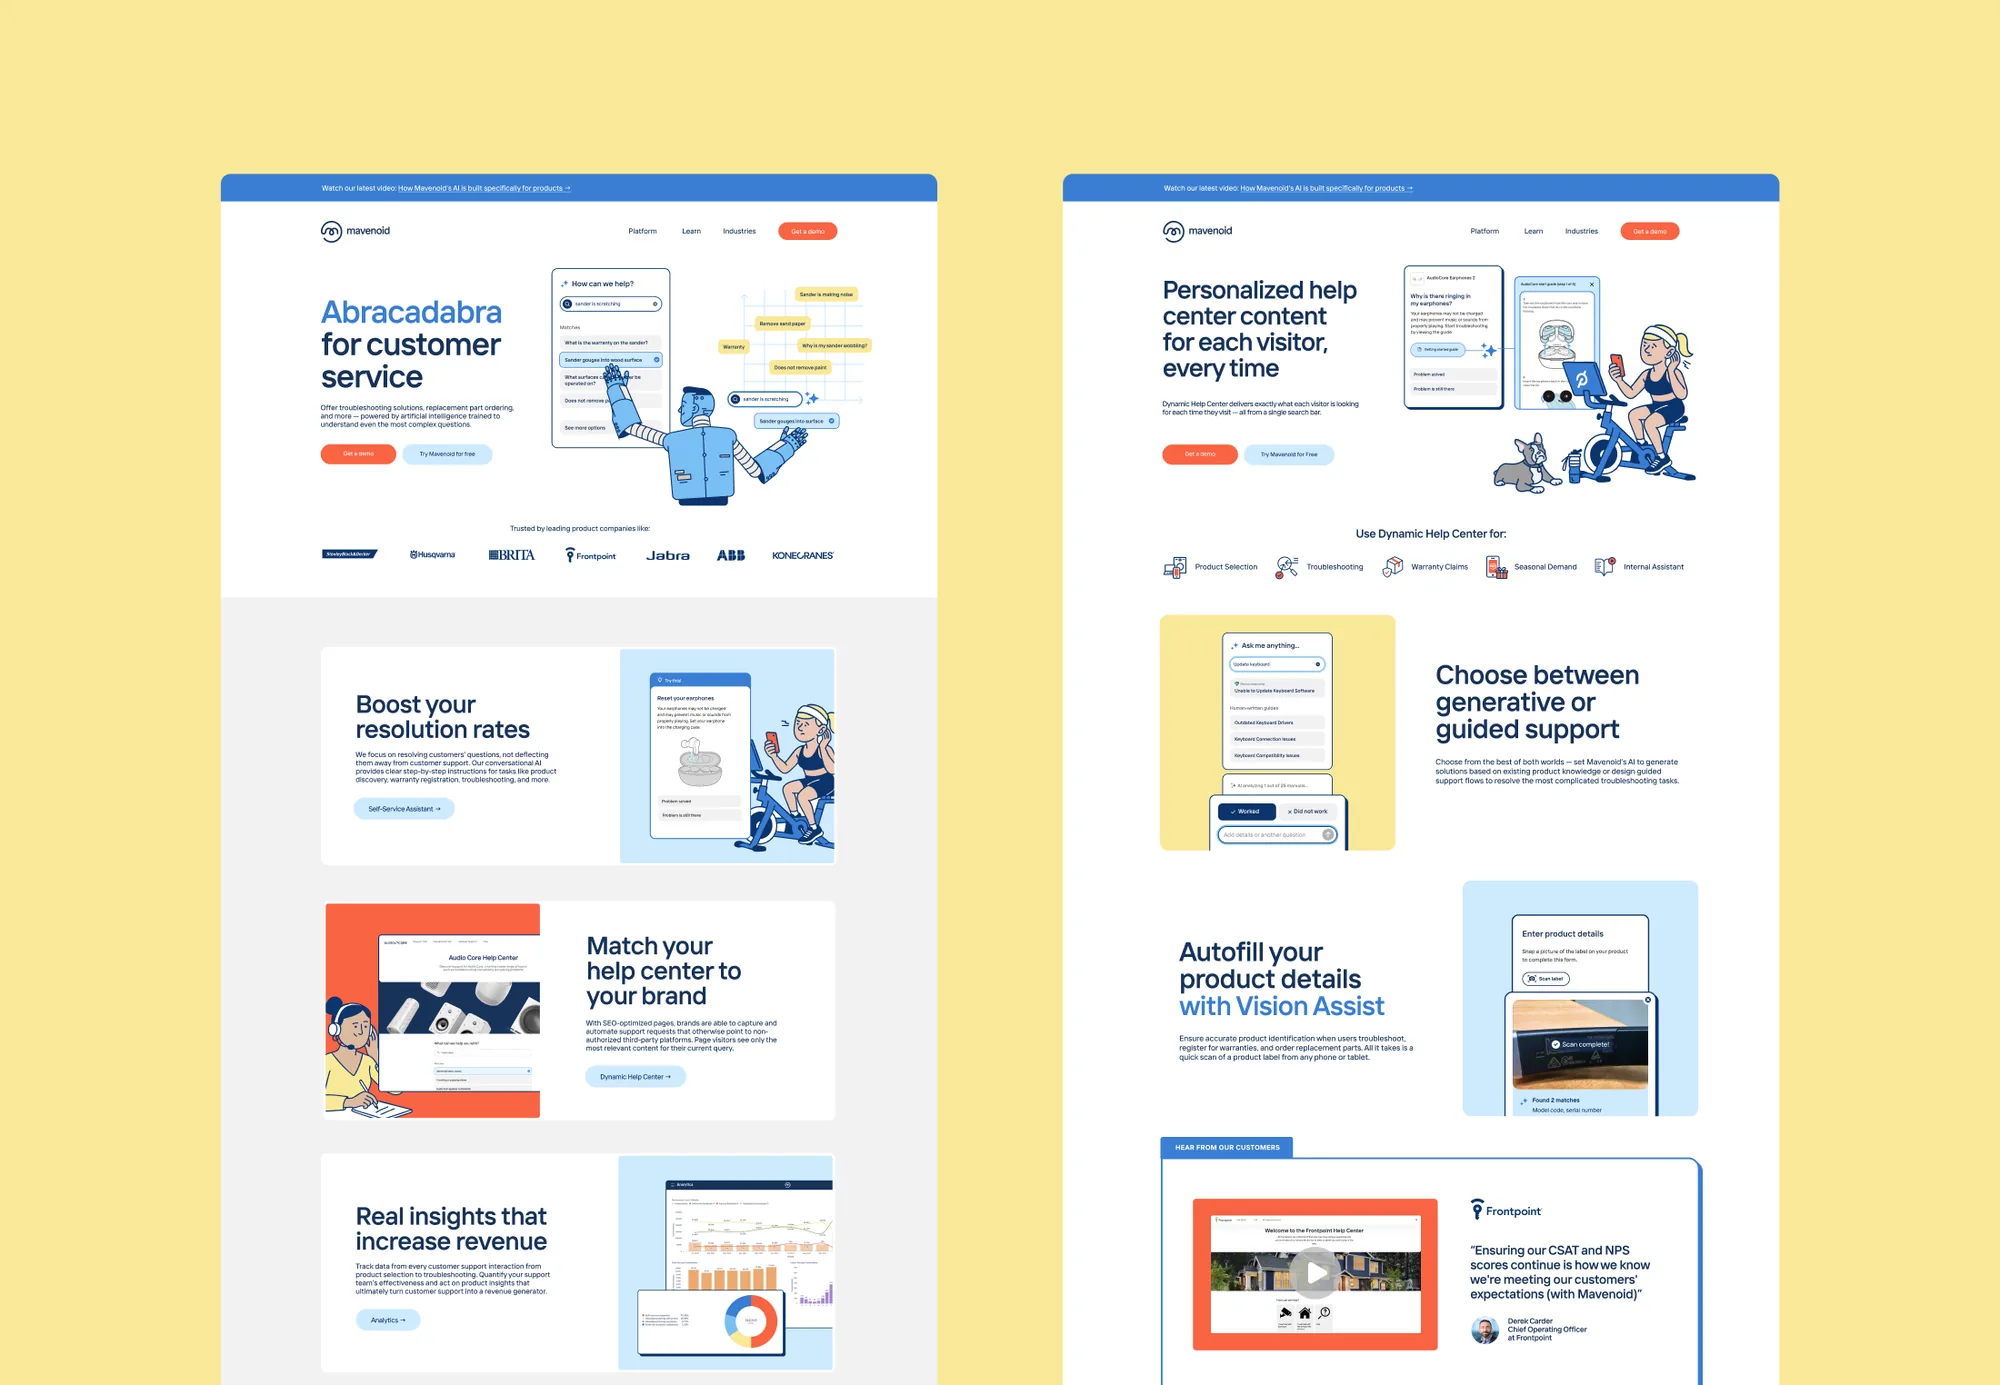
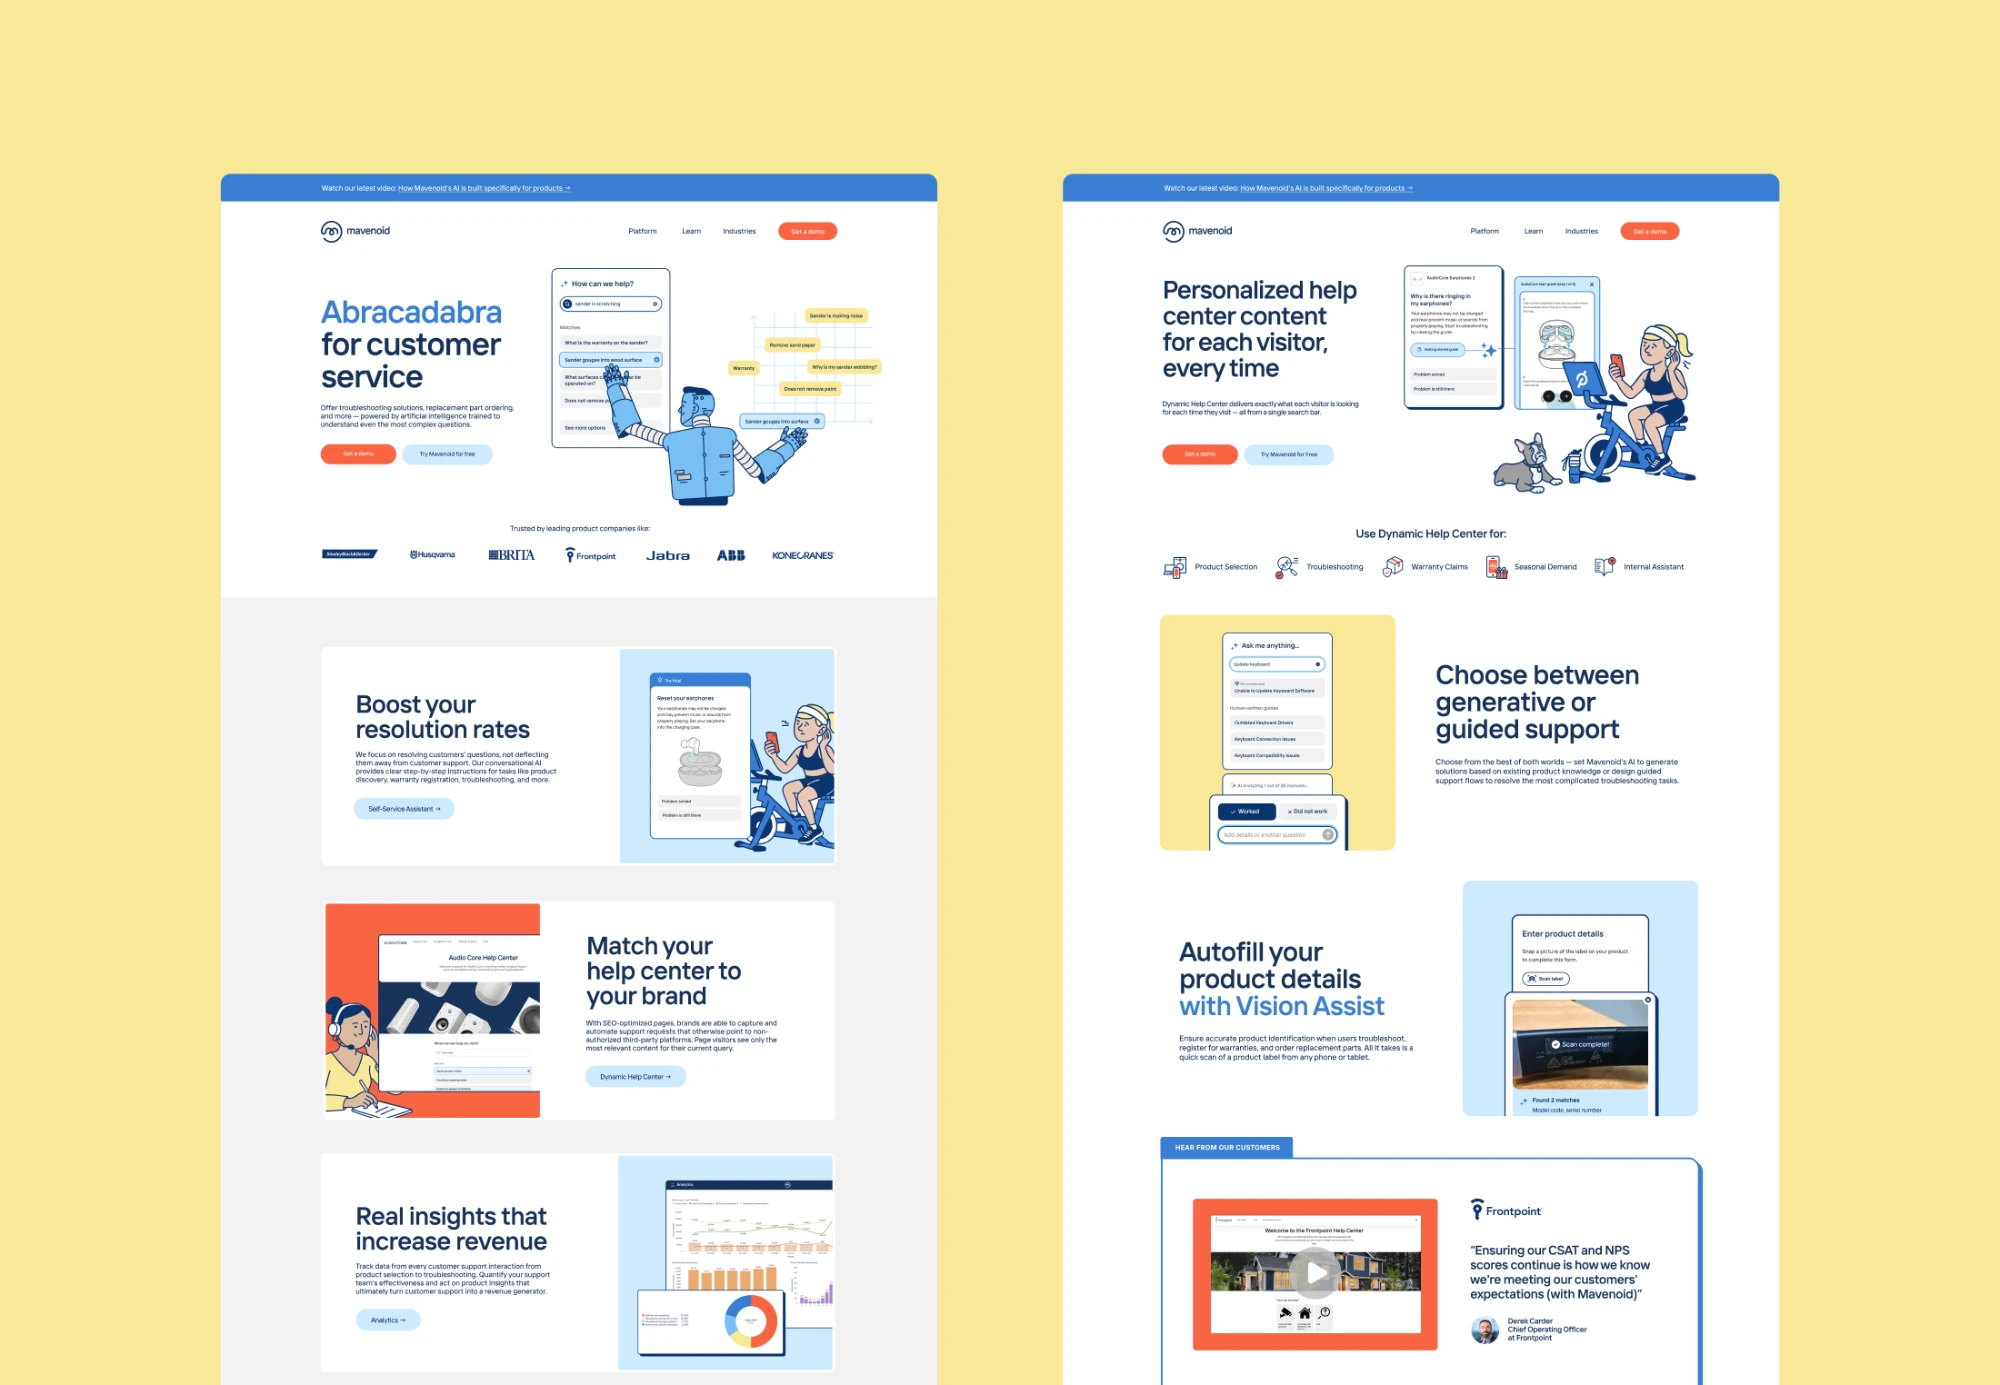
Mavenoid: updated website screens image (-04); nudge result position under the robot hand
Claude-Session: https://claude.ai/code/session_01AHeBdzsoJZFhxNudjo9MkA

Changed region(s): [[0.341, 0.1863, 0.434, 0.3105], [0.744, 0.9004, 0.806, 0.9314]]

diff --git a/mavenoid-hero-sketch.html b/mavenoid-hero-sketch.html
@@ -101,8 +101,8 @@ svg text{font-family:"Inter","Helvetica Neue",Helvetica,Arial,sans-serif;font-we
 <path d="M200.637 126.64V127.079H298.635V126.64V126.201H200.637V126.64ZM298.946 126.95C299.117 126.779 299.117 126.501 298.946 126.329L296.152 123.536C295.98 123.364 295.703 123.364 295.531 123.536C295.36 123.707 295.36 123.985 295.531 124.156L298.014 126.64L295.531 129.123C295.36 129.294 295.36 129.572 295.531 129.744C295.703 129.915 295.98 129.915 296.152 129.744L298.946 126.95Z" fill="#CBE8FF"/>
 <path d="M185.046 123.3V126.64H200.9" stroke="#CBE8FF" stroke-width="0.88" stroke-linejoin="miter"/>
 </g>
-<g id="chip"><rect x="168.875" y="139.363" width="81.3712" height="14.6473" rx="3.90069" fill="#CEEAFF" stroke="#397ED3" stroke-width="0.600106"/><text x="174.125" y="148.6" fill="#173259" textLength="60.1" lengthAdjust="spacingAndGlyphs">Sander gouges into surface</text><use id="chk2" href="#chk" transform="translate(242.895 146.5)"/></g>
-<rect id="rpc" x="168.875" y="139.363" width="81.3712" height="14.6473" rx="3.9" stroke="#79BFF4" stroke-width="0.7" opacity="0"/>
+<g id="chip"><rect x="172" y="139.363" width="81.3712" height="14.6473" rx="3.90069" fill="#CEEAFF" stroke="#397ED3" stroke-width="0.600106"/><text x="177.25" y="148.6" fill="#173259" textLength="60.1" lengthAdjust="spacingAndGlyphs">Sander gouges into surface</text><use id="chk2" href="#chk" transform="translate(246.02 146.5)"/></g>
+<rect id="rpc" x="172" y="139.363" width="81.3712" height="14.6473" rx="3.9" stroke="#79BFF4" stroke-width="0.7" opacity="0"/>
 
 <!-- ============ robot ============ -->
 <g class="hd">
@@ -283,7 +283,7 @@ var notes=[
  {id:'s4',r:[236.052,67.0908,71.4063,14.0471],from:[100,130.784],start:4.8,rot:9},
  {id:'s2',r:[233.711,17.9229,60.871,14.0471],from:[100,130.784],start:5.1,rot:-8}
 ];
-var NOTE_DUR=.85, CHIP={r:[168.875,139.363,81.3712,14.6473],from:[60,88],start:6,dur:.75};
+var NOTE_DUR=.85, CHIP={r:[172,139.363,81.3712,14.6473],from:[60,88],start:6,dur:.75};
 var t=0,t_;
 function tf(cx,cy,dx,dy,rot,s){return 'translate('+(cx+dx)+' '+(cy+dy)+') rotate('+rot+') scale('+s+') translate('+(-cx)+' '+(-cy)+')'}
 function prog(start,dur){ if(t<R1) return {a:1,o:1-clamp((t-R0)/(R1-R0))}; var a=clamp((t-start)/dur); return {a:a,o:a>0?1:0}; }
@@ -322,7 +322,7 @@ function render(tt){
   for(i=0;i<5;i++){var n=notes[i];fly($(n.id),$('rp'+i),n.r,n.from,n.start,NOTE_DUR,n.rot,.55,22);}
   fly($('chip'),$('rpc'),CHIP.r,CHIP.from,CHIP.start,CHIP.dur,0,.8,14);
   var cc = t<R1?1-rst:eob(clamp((t-(CHIP.start+CHIP.dur))/.35));
-  $('chk2').setAttribute('transform','translate(242.895 146.5) scale('+Math.max(cc,0)+')');
+  $('chk2').setAttribute('transform','translate(246.02 146.5) scale('+Math.max(cc,0)+')');
   /* robot: the head turns to the card, then to the graph; arms lift as things are sent */
   var h1=eio(clamp((t-1.2)/.5))*(1-eio(clamp((t-2.9)/.5))), h2=eio(clamp((t-3.3)/.5))*(1-eio(clamp((t-7)/.7)));
   var fl=(t>=3.4&&t<7)?-1:1;
